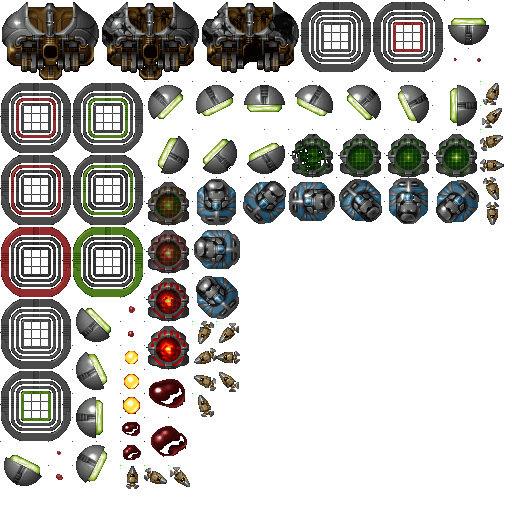
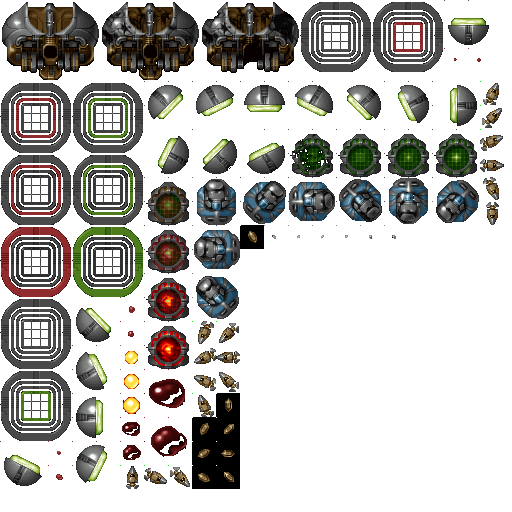
I actually ate during my lunchbreak today, so only a small alibi commit. Enjoy the crystal and debris.

Changed region(s): [[0.375, 0.75, 0.4688, 0.9688], [0.4688, 0.4375, 0.5312, 0.5]]

diff --git a/README.md b/README.md
@@ -20,3 +20,6 @@ Might change at any time.
 I only work on this around 15 minutes every day during my lunchbreaks,
 so it might take a while until it's finished.
 
+And yes, in some cases the cut could be much tighter, but I want to get through all of them once
+before I start to optimize.
+
